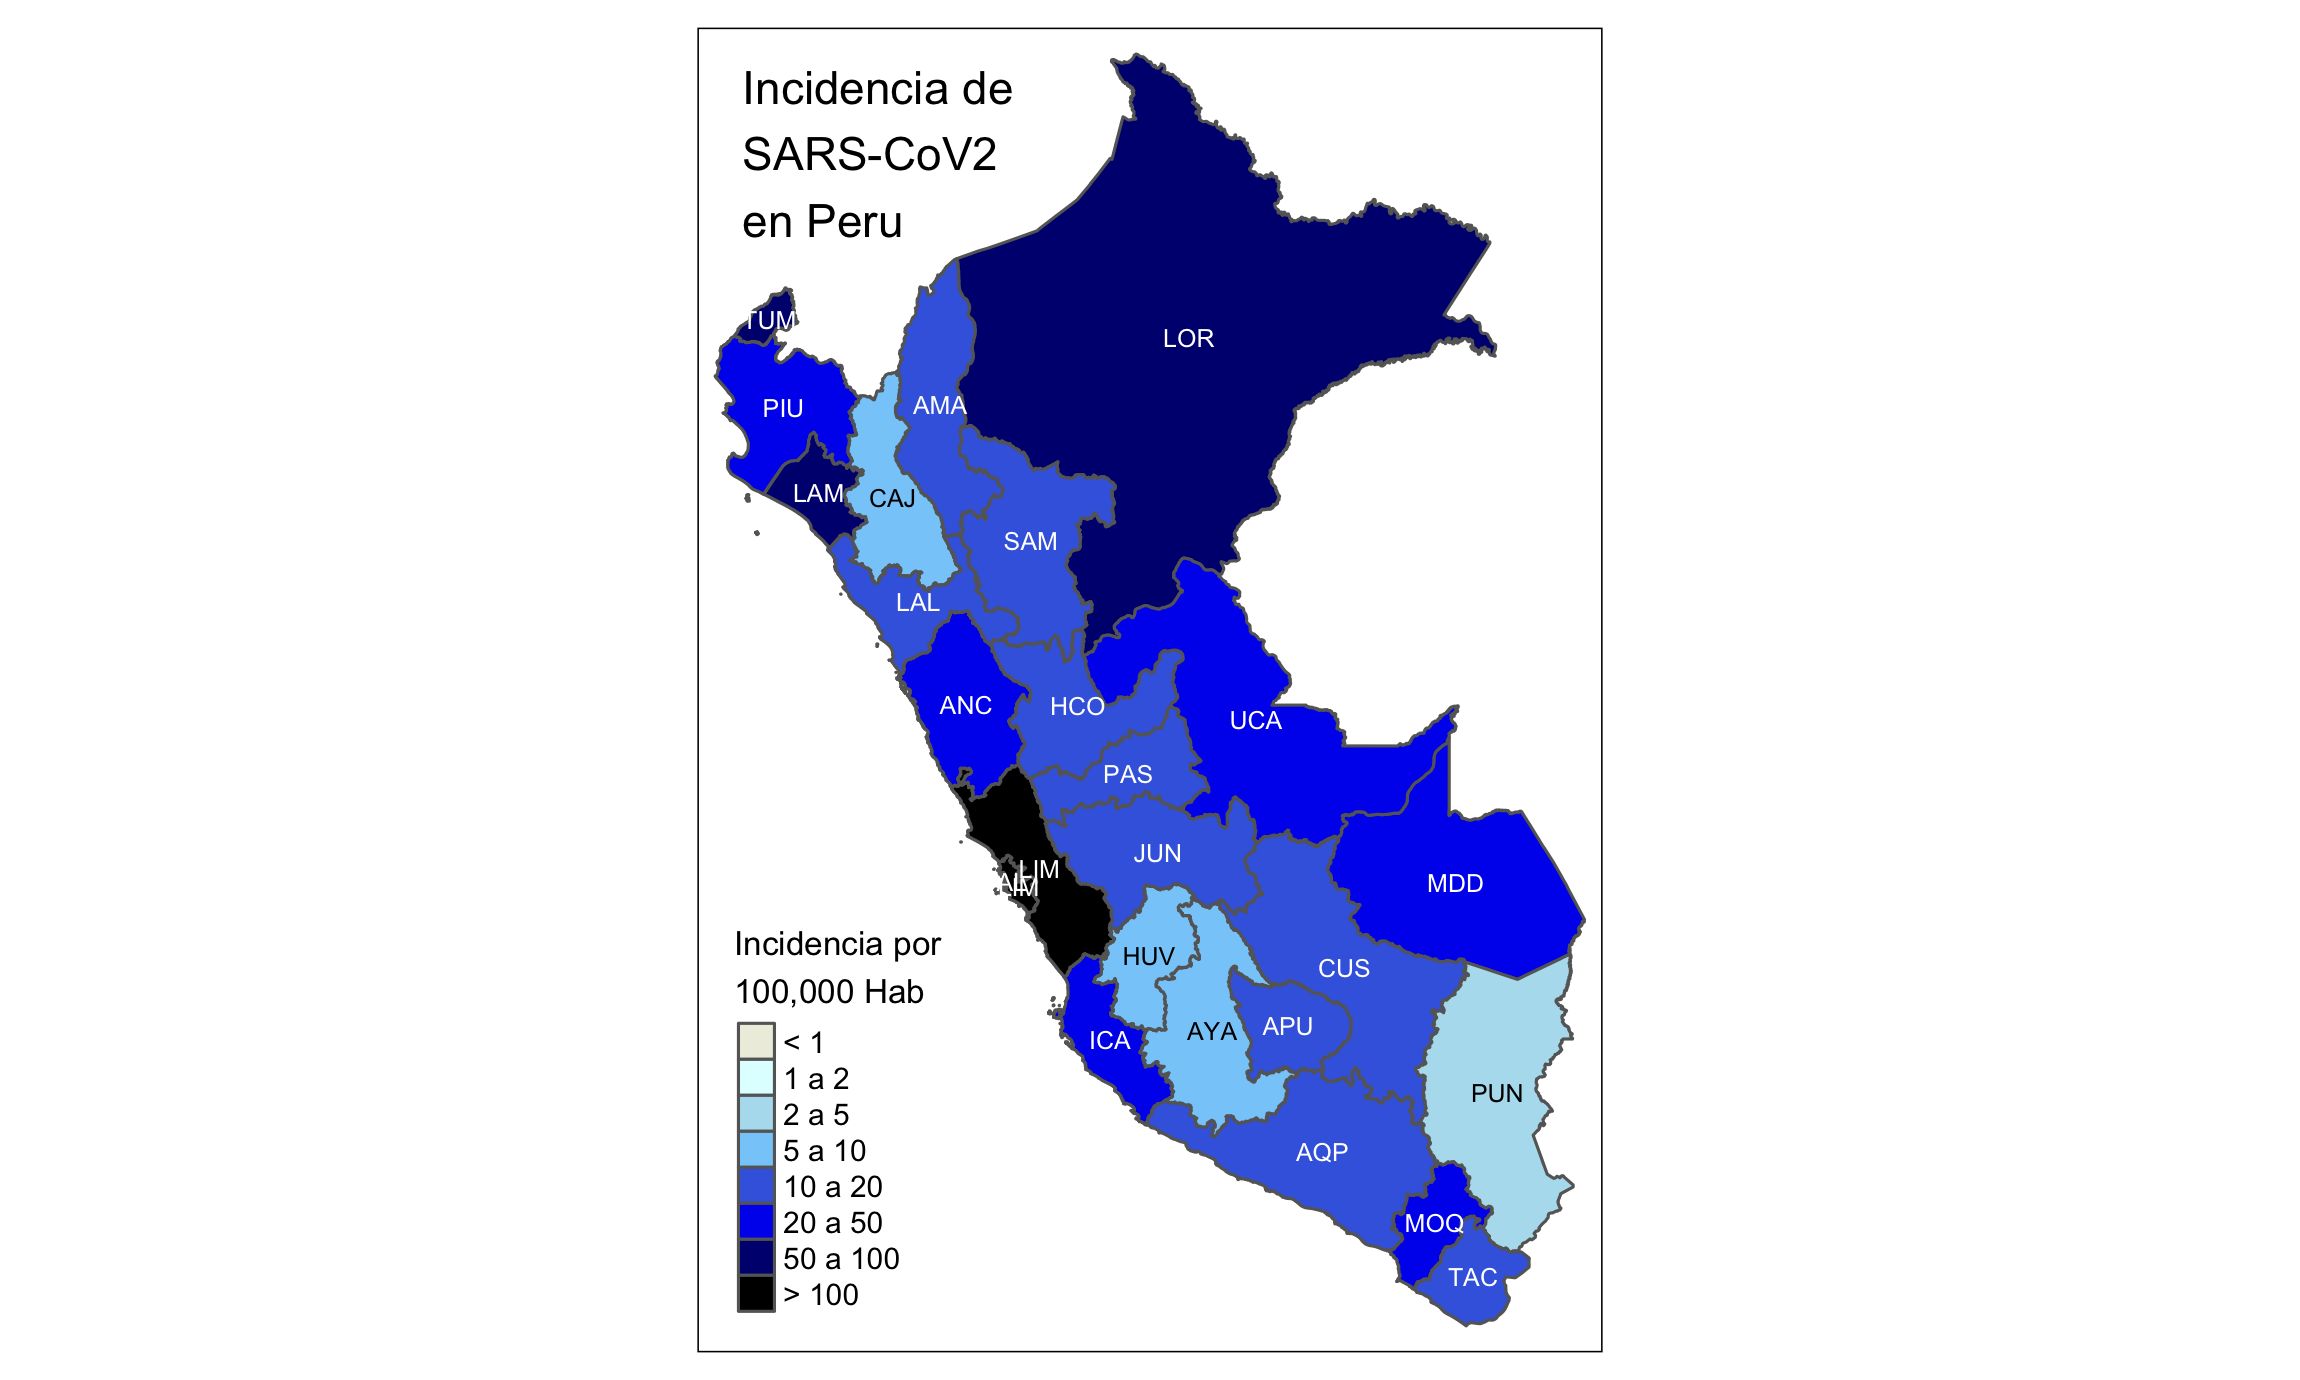
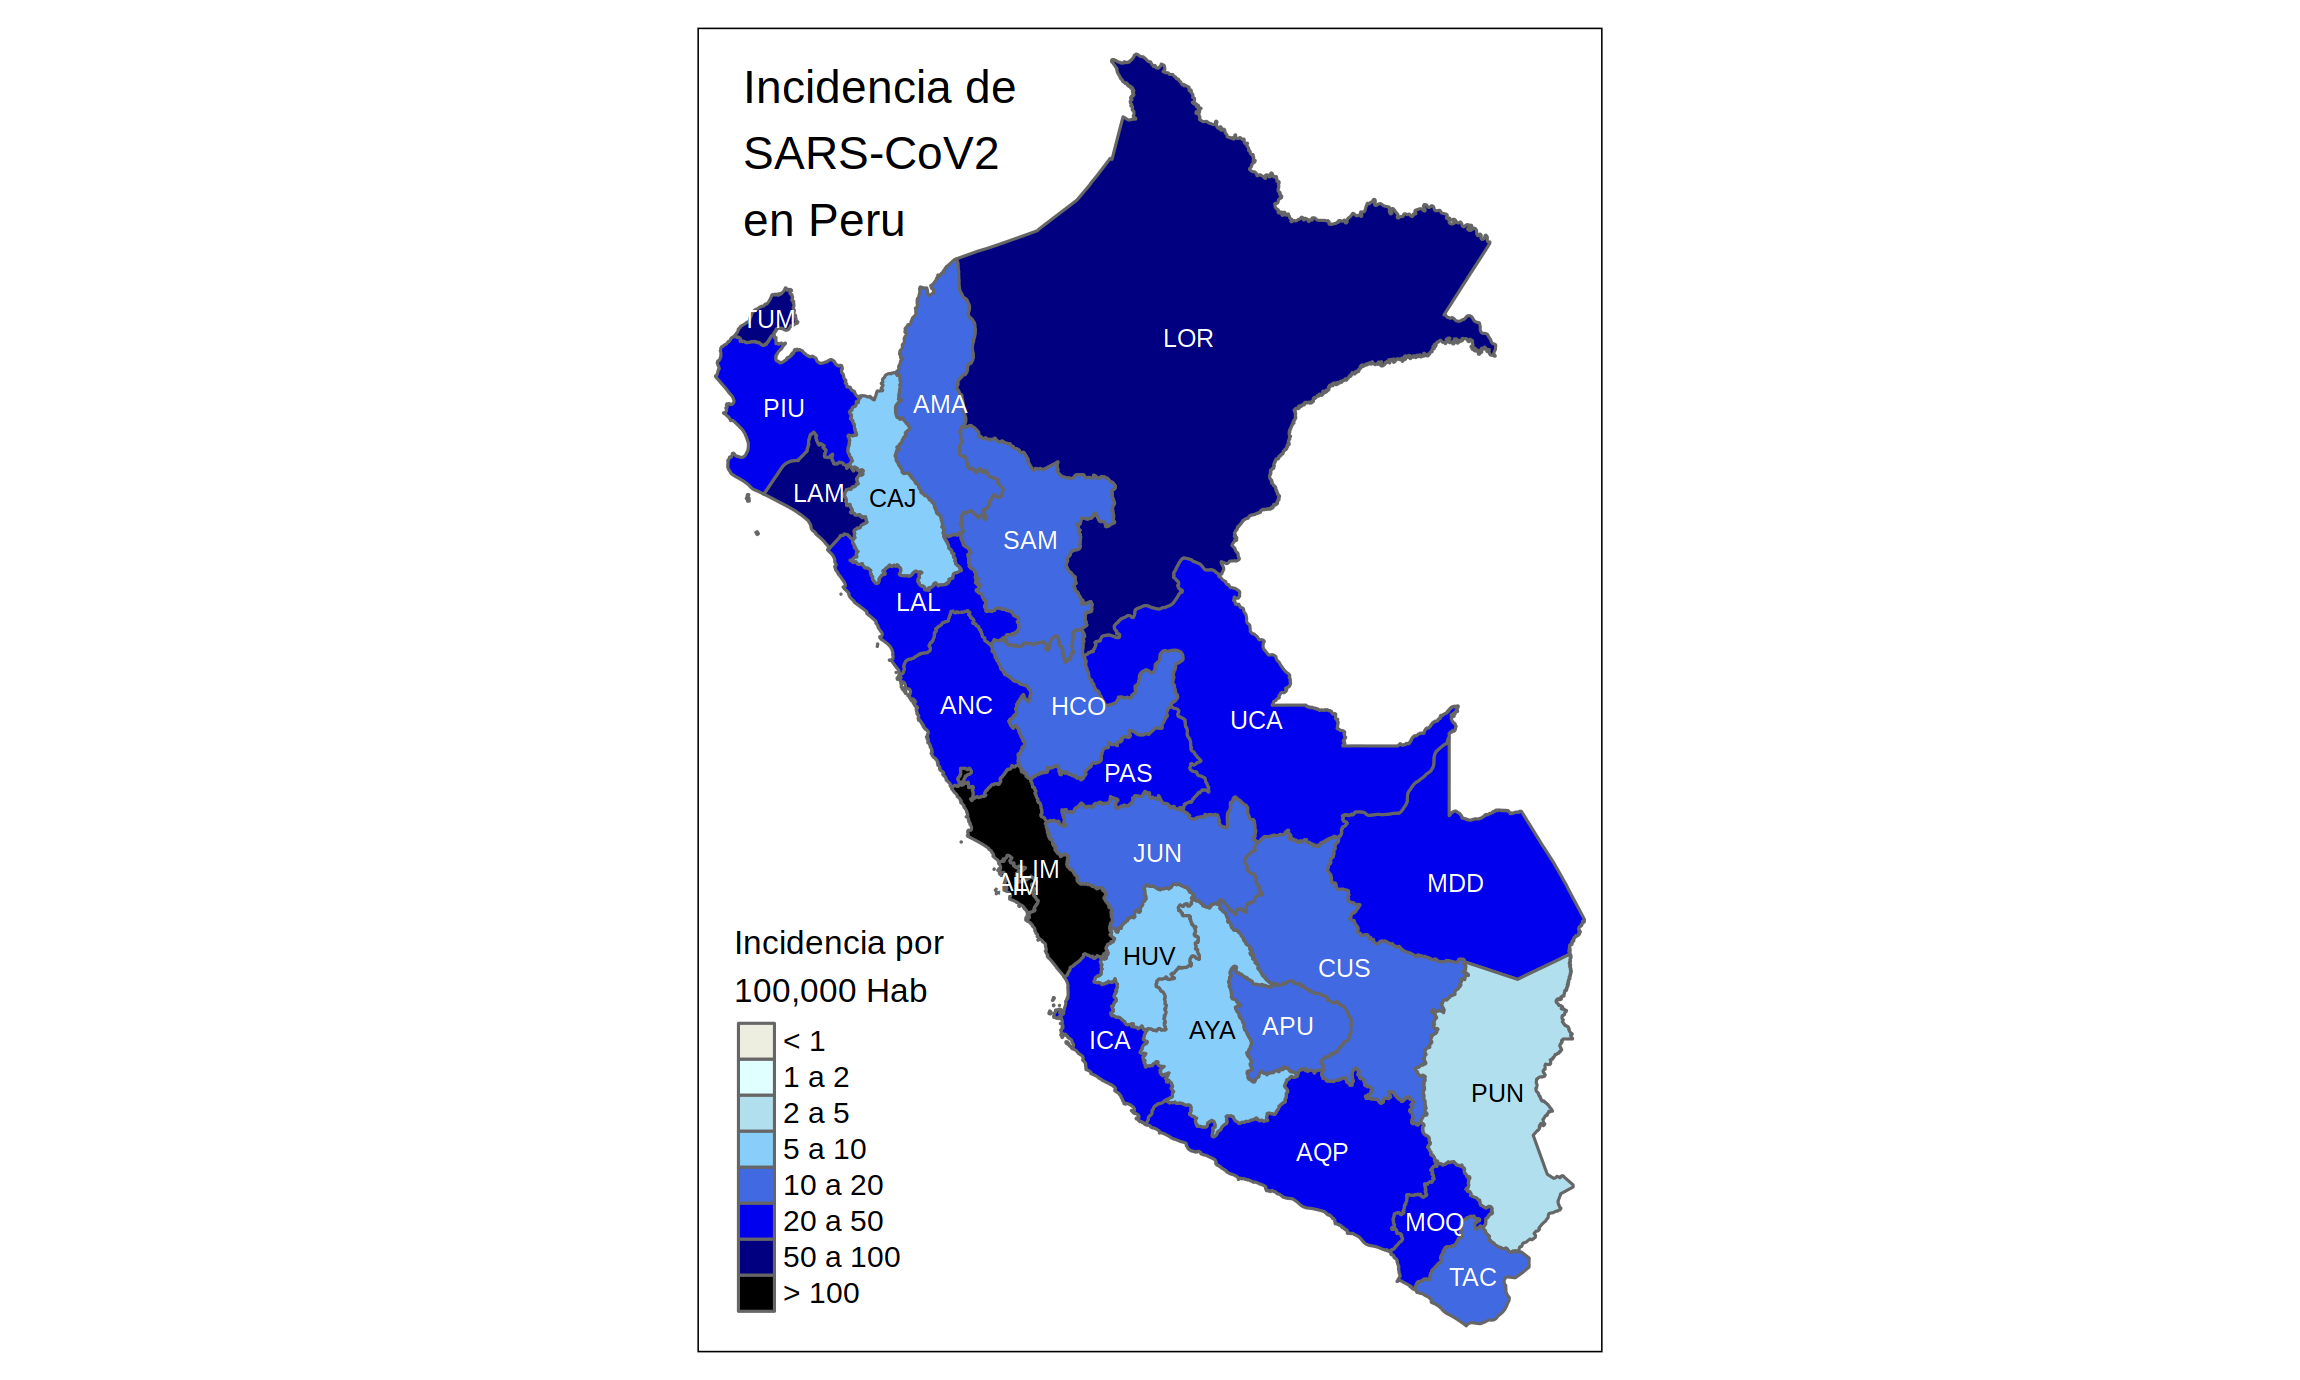
Actualizacion de graficos al 2020-04-24

diff --git a/proyectos/covid19/_posts/2020-03-30-datos-covid-peru.md b/proyectos/covid19/_posts/2020-03-30-datos-covid-peru.md
@@ -67,7 +67,7 @@ github: https://github.com/ce4-peru/covid19
             };
             //--------------------------------------->
             //Aqui se tiene que actualizar la fecha-->
-            actualizarFecha('23 de abril 19:30 hora de Perú');
+            actualizarFecha('24 de abril 19:30 hora de Perú');
             //--------------------------------------->
         </script>  
 </body>		
